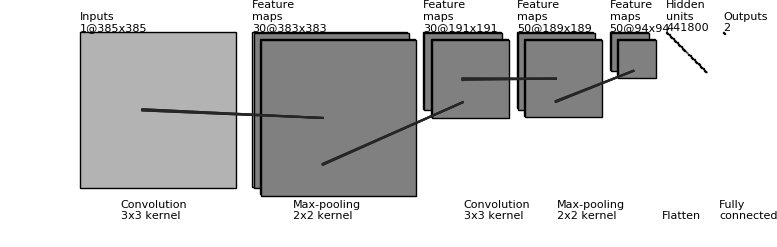
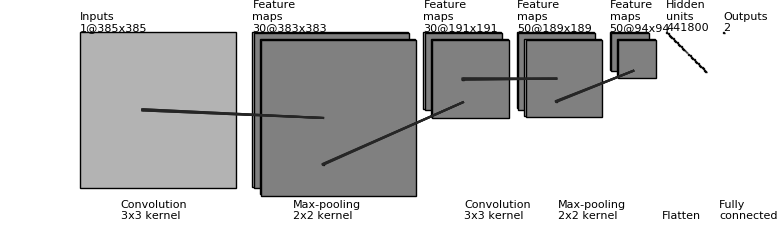
Based the separetion of the conv layers on the layer_sizes[]

diff --git a/draw_convnet.py b/draw_convnet.py
@@ -155,24 +155,24 @@ if __name__ == '__main__':
 
     ############################
     # conv layers
-    a = 385
-    b = 191
-    c = 94
-    d = 45 
-    layer_sizes = [385, 191, 94]
+    layer_sizes = [385, 191, 94] # Resolution of the layer. It is assumed that max pooling will accur between each layer
     convFilterSize = [3,3]
     lowerTextVerticalOffset = -460
+    #Define the resolution of each layer
     size_list = [(layer_sizes[0],layer_sizes[0])]
     for i in range(len(layer_sizes)-1):
         size_list.append((layer_sizes[i]-convFilterSize[0]+1, layer_sizes[i]-convFilterSize[0]+1))
         size_list.append((layer_sizes[i+1], layer_sizes[i+1]))
 
-    #size_list = [(a, a), (a-convFilterSize[0]+1, a-convFilterSize[0]+1), ((a-convFilterSize[0]+1)//2, (a-convFilterSize[0]+1)//2), (b-convFilterSize[1]+1, b-convFilterSize[1]+1), (c, c)] # Resolution of each map
-    #size_list = [(a, a), (a-convFilterSize[0]+1, a-convFilterSize[0]+1), (b, b), (b-convFilterSize[1]+1, b-convFilterSize[1]+1), (c, c)]#, (c-convFilterSize[2]+1, c-convFilterSize[2]+1), (d, d), (d-convFilterSize[3]+1, d-convFilterSize[3]+1)]
     print(len(size_list))
     num_list = [1, 30, 30, 50, 50] # Number of feature maps
 
-    x_diff_list = [0, layer_width+a, layer_width+a-convFilterSize[0], layer_width+b, layer_width+b-convFilterSize[1]+1] # Seperation between each map
+    # Seperation between ecah maps
+    x_diff_list = [0]
+    for i in range(len(layer_sizes)-1):
+        x_diff_list.append(layer_width+layer_sizes[i])
+        x_diff_list.append(layer_width+layer_sizes[i]-convFilterSize[i])
+
     text_list = ['Inputs'] + ['Feature\nmaps'] * (len(size_list) - 1)
     loc_diff_list = [[3, -3]] * len(size_list)
 
